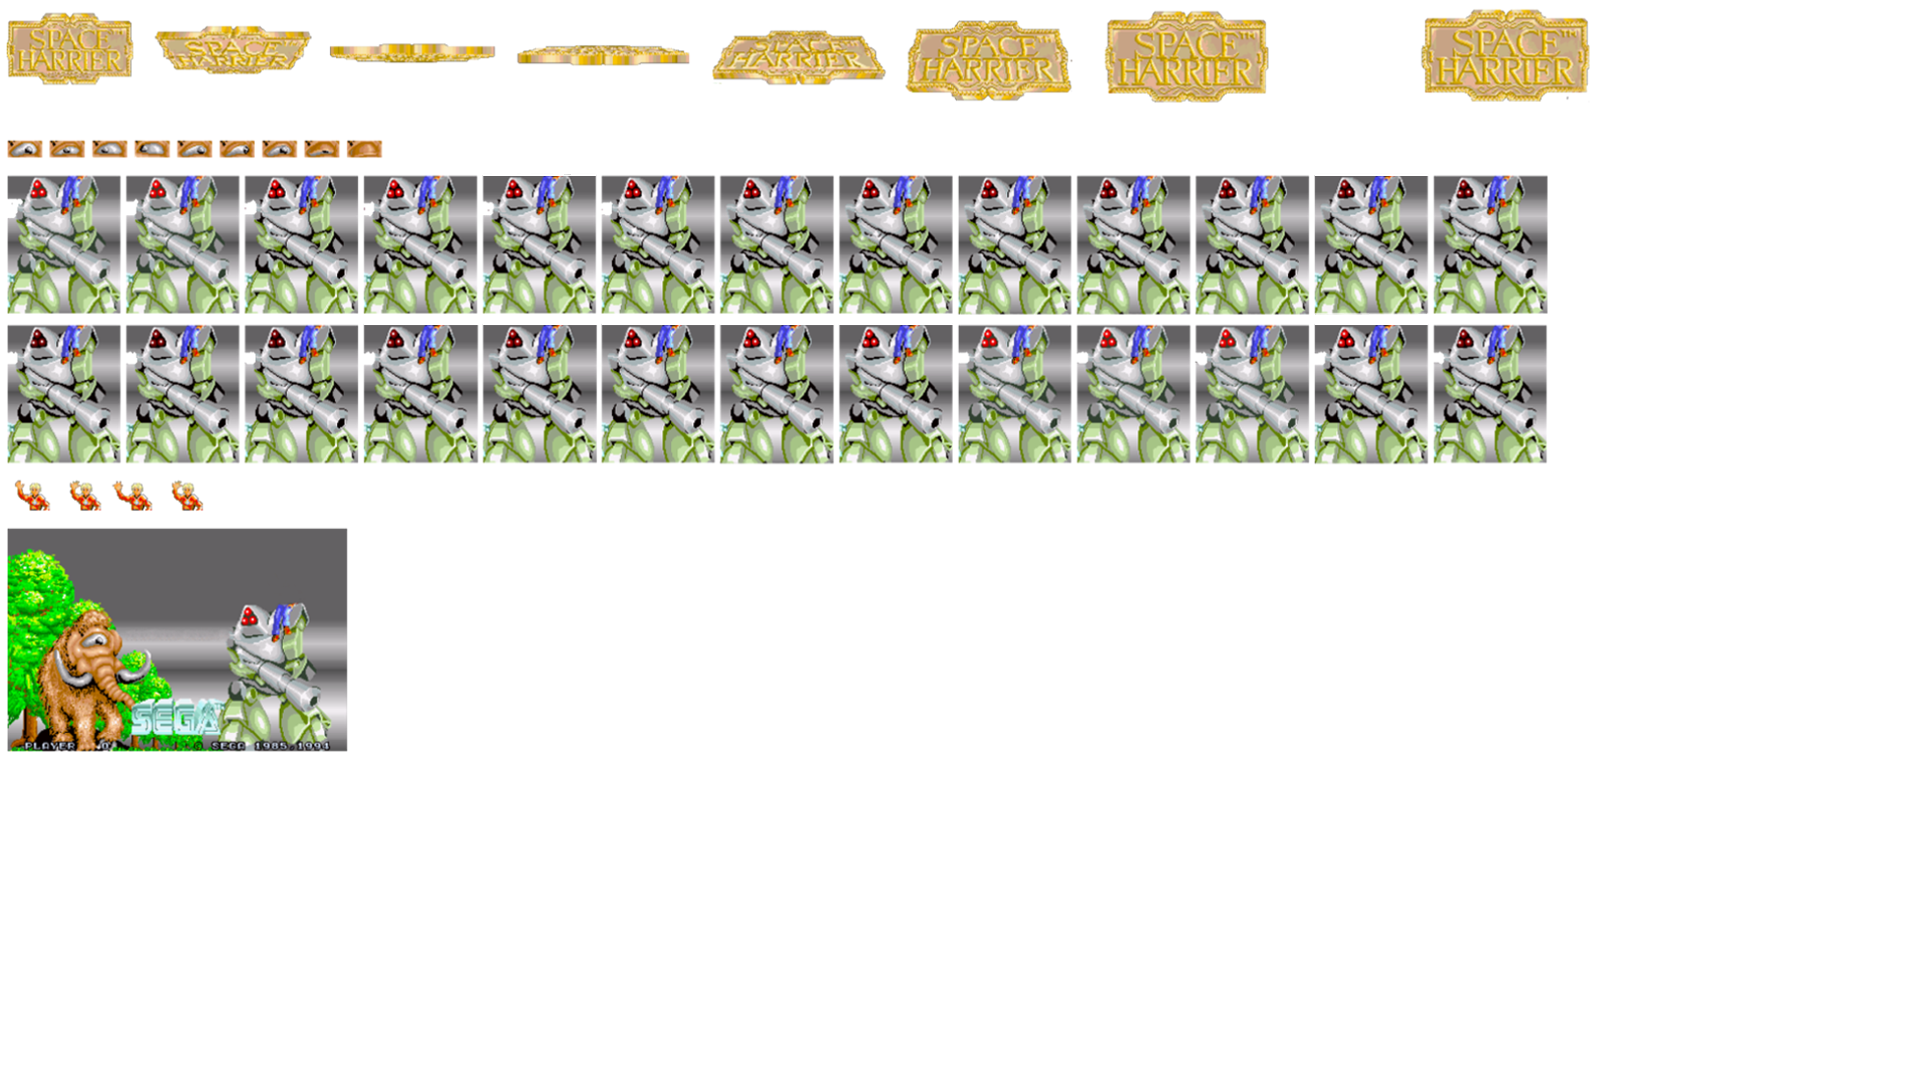
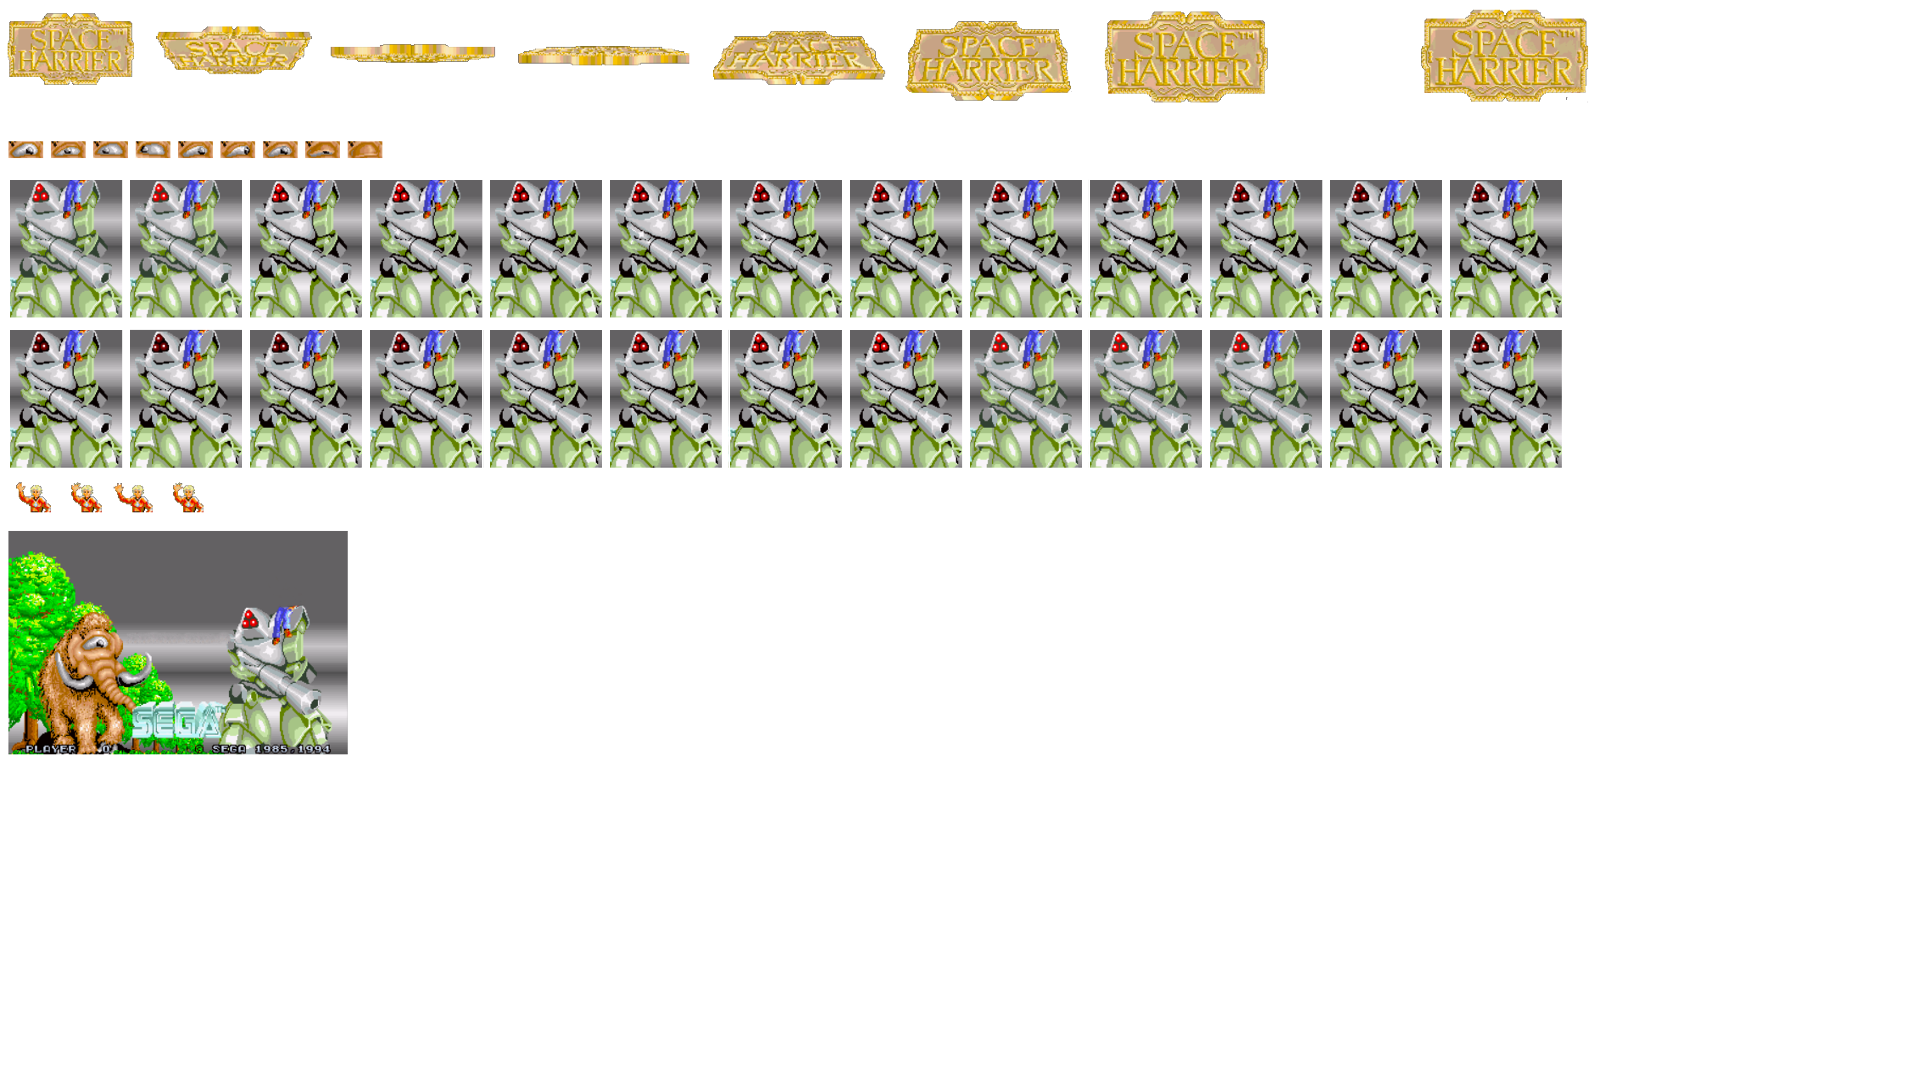
Upgraded menu Animations

diff --git a/Space Harrier/ModuleMenu.cpp b/Space Harrier/ModuleMenu.cpp
@@ -18,70 +18,71 @@ const float ModuleMenu::TEXT_INTERVAL = 1.0f;
 ModuleMenu::ModuleMenu(bool active) : Module(active)
 {
 	//Background
-	background = {8,528,340,224};
+	background = {8,531,340,224};
 	
 	//Title
-	title.frames.push_back({ 0,10,140,90 });
-	title.frames.push_back({ 150,20,170,60 });
-	title.frames.push_back({ 330,30,170,40 });
-	title.frames.push_back({ 510,40,190,30 });
-	title.frames.push_back({ 710,20,180,70 });
-	title.frames.push_back({ 1100,10,180,100 });
+	title.frames.push_back({ 7,13,127,72 });
+	title.frames.push_back({ 156,26,155,48 });
+	title.frames.push_back({ 330,44,164,19 });
+	title.frames.push_back({ 518,46,171,20 });
+	title.frames.push_back({ 713,31,172,54 });
+	title.frames.push_back({ 905,21,166,80 });
+	title.frames.push_back({ 1105,11,163,92 });
 	title.speed = 5.0f;
 
-	finalTitle = { 1100,10,180,100 };
+	finalTitle = { 1105,11,163,92 };
 
 	//Eye
-	eye.frames.push_back({8,140,34,18});
-	eye.frames.push_back({ 50,140,34,18 });
-	eye.frames.push_back({ 92,140,34,18 });
-	eye.frames.push_back({ 134,140,34,18 });
-	eye.frames.push_back({ 92,140,34,18 });
-	eye.frames.push_back({ 50,140,34,18 });
-	eye.frames.push_back({ 8,140,34,18 });
-	eye.frames.push_back({ 178,140,34,18 });
-	eye.frames.push_back({ 220,140,34,18 });
-	eye.frames.push_back({ 263,140,34,18 });
-	eye.frames.push_back({ 305,140,34,18 });
-	eye.frames.push_back({ 347,140,34,18 });
-	eye.frames.push_back({ 305,140,34,18 });
-	eye.frames.push_back({ 263,140,34,18 });
+	eye.frames.push_back({8,141,35,17});
+	eye.frames.push_back({ 51,141,35,17 });
+	eye.frames.push_back({ 93,141,35,17 });
+	eye.frames.push_back({ 135,141,35,17 });
+	eye.frames.push_back({ 93,141,35,17 });
+	eye.frames.push_back({ 51,141,35,17 });
+	eye.frames.push_back({ 8,141,35,17 });
+	eye.frames.push_back({ 178,141,35,17 });
+	eye.frames.push_back({ 220,141,35,17 });
+	eye.frames.push_back({ 263,141,35,17 });
+	eye.frames.push_back({ 305,141,35,17 });
+	eye.frames.push_back({ 347,141,35,17 });
+	eye.frames.push_back({ 305,141,35,17 });
+	eye.frames.push_back({ 263,141,35,17 });
 	eye.speed = 3.0f;
 
 	//Robot
-	robot.frames.push_back({ 8,176,113,137 });
-	robot.frames.push_back({ 126,176,113,137 });
-	robot.frames.push_back({ 245,176,113,137 });
-	robot.frames.push_back({ 364,176,113,137 });
-	robot.frames.push_back({ 483,176,113,137 });
-	robot.frames.push_back({ 602,176,113,137 });
-	robot.frames.push_back({ 721,176,113,137 });
-	robot.frames.push_back({ 840,176,113,137 });
-	robot.frames.push_back({ 959,176,113,137 });
-	robot.frames.push_back({ 1078,176,113,137 });
-	robot.frames.push_back({ 1197,176,113,137 });
-	robot.frames.push_back({ 1315,176,113,137 });
-	robot.frames.push_back({ 1434,176,113,137 });
-	robot.frames.push_back({ 8,325,113,137 });
-	robot.frames.push_back({ 126,325,113,137 });
-	robot.frames.push_back({ 245,325,113,137 });
-	robot.frames.push_back({ 364,325,113,137 });
-	robot.frames.push_back({ 483,325,113,137 });
-	robot.frames.push_back({ 602,325,113,137 });
-	robot.frames.push_back({ 721,325,113,137 });
-	robot.frames.push_back({ 840,325,113,137 });
-	robot.frames.push_back({ 959,325,113,137 });
-	robot.frames.push_back({ 1078,325,113,137 });
-	robot.frames.push_back({ 1197,325,113,137 });
-	robot.frames.push_back({ 1315,325,113,137 });
-	robot.frames.push_back({ 1434,325,113,137 });
+	robot.frames.push_back({ 10,180,112,138 });
+	robot.frames.push_back({ 130,180,112,138 });
+	robot.frames.push_back({ 250,180,112,138 });
+	robot.frames.push_back({ 370,180,112,138 });
+	robot.frames.push_back({ 490,180,112,138 });
+	robot.frames.push_back({ 610,180,112,138 });
+	robot.frames.push_back({ 730,180,112,138 });
+	robot.frames.push_back({ 850,180,112,138 });
+	robot.frames.push_back({ 970,180,112,138 });
+	robot.frames.push_back({ 1090,180,112,138 });
+	robot.frames.push_back({ 1210,180,112,138 });
+	robot.frames.push_back({ 1330,180,112,138 });
+	robot.frames.push_back({ 1450,180,112,138 });
+	robot.frames.push_back({ 10,330,112,138 });
+	robot.frames.push_back({ 130,330,112,138 });
+	robot.frames.push_back({ 250,330,112,138 });
+	robot.frames.push_back({ 370,330,112,138 });
+	robot.frames.push_back({ 490,330,112,138 });
+	robot.frames.push_back({ 610,330,112,138 });
+	robot.frames.push_back({ 730,330,112,138 });
+	robot.frames.push_back({ 850,330,112,138 });
+	robot.frames.push_back({ 970,330,112,138 });
+	robot.frames.push_back({ 1090,330,112,138 });
+	robot.frames.push_back({ 1210,330,112,138 });
+	robot.frames.push_back({ 1330,330,112,138 });
+	robot.frames.push_back({ 1450,330,112,138 });
 	robot.speed = 5.0f;
 
 	//Man
-	man.frames.push_back({10,480,50,30});
-	man.frames.push_back({ 60,480,50,30 });
-	man.frames.push_back({ 110,480,50,30 });
-	man.frames.push_back({ 160,480,50,30 });
+	man.frames.push_back({11,482,40,31 });
+	man.frames.push_back({ 62,482,40,31 });
+	man.frames.push_back({ 113,482,40,31 });
+	man.frames.push_back({ 164,482,40,31 });
 	man.speed = 2.0f;
 }
 
@@ -143,11 +144,11 @@ update_status ModuleMenu::Update()
 
 	//Robot
 	robot.Update();
-	App->renderer->Blit(content, 97,12,&(robot.GetCurrentFrame()),nullptr);
+	App->renderer->Blit(content, 97,11,&(robot.GetCurrentFrame()),nullptr);
 
 	//Man
 	man.Update();
-	App->renderer->Blit(content,105,146,&(man.GetCurrentFrame()),nullptr);
+	App->renderer->Blit(content,101,146,&(man.GetCurrentFrame()),nullptr);
 
 	//Title
 	if (titleMult > 0) {

diff --git a/Space Harrier/ModuleScene.cpp b/Space Harrier/ModuleScene.cpp
@@ -42,8 +42,7 @@ bool ModuleScene::Start()
 	timeElapsed = 0;
 	currentStage++;
 	string path = "assets/json/Stage" + to_string(currentStage) + ".json";
-	//LoadJson(path.c_str());
-	LoadJson("assets/json/STest.json");
+	LoadJson(path.c_str());
 	
 	
 	background = App->textures->Load(backgroundPath.c_str());
